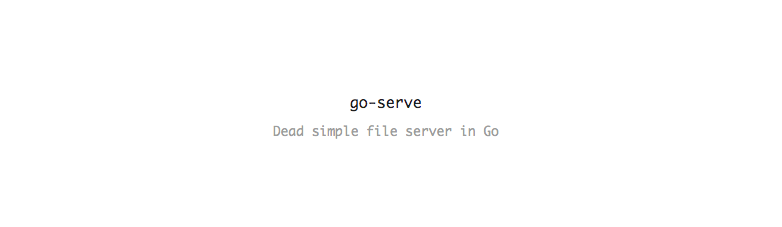
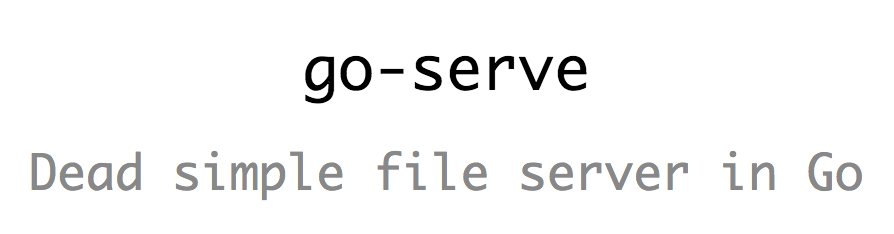
Updated image in readme

diff --git a/README.md b/README.md
@@ -1,4 +1,6 @@
-![go-serve](go-serve.png)
+<p align="center">
+  <img src="https://github.com/leninhasda/go-serve/blob/dev/go-serve.png?raw=true" alt="go-serve"/>
+</p>
 
 # go-serve
 Quickly spin up a file server
